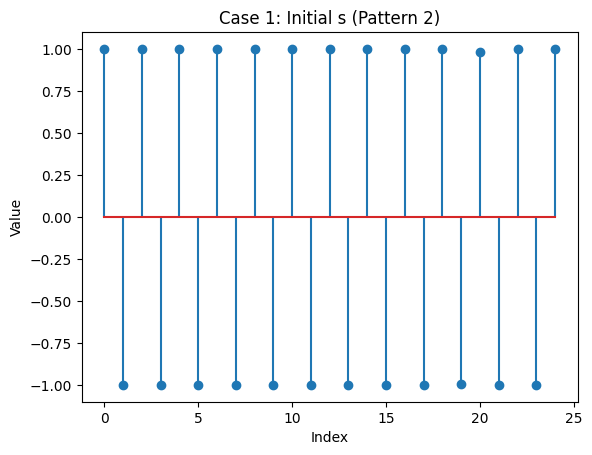
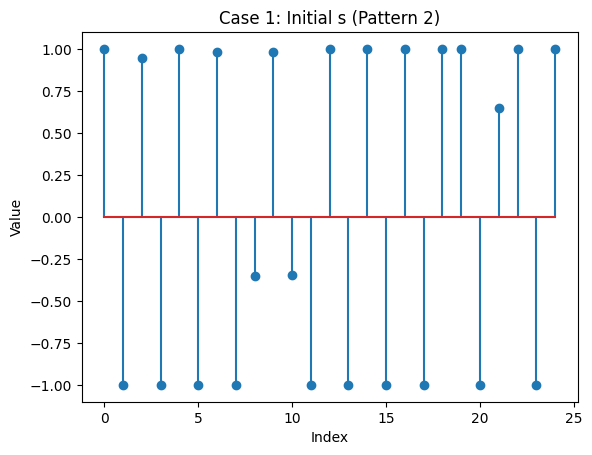
noise increase

diff --git a/projectTwo/hopfield.py b/projectTwo/hopfield.py
@@ -16,22 +16,19 @@ def hebbian_weights_from_patterns(patterns_01: np.ndarray, zero_diagonal: bool =
     patterns_01: shape (k, n) with entries in {0,1}.
     Returns symmetric W with optional zero diagonal.
     """
-    patterns = to_bipolar(patterns_01)  # (k, n) in {-1,1}
+    patterns = to_bipolar(patterns_01)
     k, n = patterns.shape
-    W = np.zeros((n, n), dtype=float) # sum over outer products
+    W = np.zeros((n, n), dtype=float)
     for p in patterns:
         W += np.outer(p, p)
     if normalize and n > 0:
         W /= n
     if zero_diagonal:
         np.fill_diagonal(W, 0.0)
-    # ensure symmetry
     W = 0.5 * (W + W.T)
     return W
 
-# -------------------------------
-# Simple fixed-step RK4 integrator
-# -------------------------------
+
 def rk4_step(f, t, x, dt):
     k1 = f(t, x)
     k2 = f(t + 0.5*dt, x + 0.5*dt*k1)
@@ -39,11 +36,9 @@ def rk4_step(f, t, x, dt):
     k4 = f(t + dt, x + dt*k3)
     return x + (dt/6.0) * (k1 + 2*k2 + 2*k3 + k4)
 
-# -------------------------------
-# Continuous-time Hopfield Network
 # du/dt = (-u + W*s + b) / tau,  s = tanh(beta * u)
-# Energy proxy: E = -0.5 * s^T W s - b^T s  (monitors descent qualitatively)
-# -------------------------------
+# E = -0.5 * s^T W s - b^T s
+
 class ContinuousHopfield:
     def __init__(self, W: np.ndarray, tau: float = 1.0, beta: float = 4.0, bias: np.ndarray | None = None, seed: int | None = None):
         """
@@ -65,8 +60,6 @@ class ContinuousHopfield:
     def set_state_from_pattern01(self, y01: np.ndarray, noise_std: float = 0.0):
         """Initialize u near the bipolar version of a 0/1 pattern."""
         s_target = to_bipolar(y01.astype(float))
-        # Initialize u so that tanh(beta u) ≈ s_target
-        # arctanh maps (-1,1) -> R; clip to avoid inf
         eps = 1e-5
         s_clip = np.clip(s_target, -1+eps, 1-eps)
         u0 = np.arctanh(s_clip) / self.beta
@@ -123,13 +116,8 @@ class ContinuousHopfield:
         """Return discrete {-1,1} state from current s."""
         return np.sign(self.s + 1e-12)  # avoid zeros
 
-# -------------------------------
-# Max-Cut via Hopfield
-# Given weighted adjacency A (symmetric, zero diag), the Max-Cut objective:
-# maximize (1/2) * sum_{i<j} A_ij * (1 - s_i s_j)  with s_i in {-1,1}
-# Equivalent to minimizing -0.5 * s^T A s  => set W = -A
-# -------------------------------
-def hopfield_for_maxcut(A: np.ndarray, tau: float = 1.0, beta: float = 4.0, seed: int | None = None) -> ContinuousHopfield:
+
+def maxcut(A: np.ndarray, tau: float = 1.0, beta: float = 4.0, seed: int | None = None) -> ContinuousHopfield:
     A = 0.5 * (A + A.T)
     np.fill_diagonal(A, 0.0)
     W = -A.copy()
@@ -138,9 +126,7 @@ def hopfield_for_maxcut(A: np.ndarray, tau: float = 1.0, beta: float = 4.0, seed
 def cut_value(A: np.ndarray, s_sign: np.ndarray) -> float:
     """Compute cut value for spins s in {-1,1}^n and adjacency A."""
     # Cut = sum_{i<j} A_ij * [s_i != s_j] = 0.5 * sum_{i<j} A_ij * (1 - s_i s_j)
-    # Implement with matrix ops
     A = 0.5 * (A + A.T)
     np.fill_diagonal(A, 0.0)
     S = np.outer(s_sign, s_sign)
-    total = 0.5 * np.sum(A * (1.0 - S))
-    return float(total)
+    return float(0.25 * np.sum(A * (1.0 - S)))

diff --git a/projectTwo/run_project2.py b/projectTwo/run_project2.py
@@ -6,7 +6,7 @@ from hopfield import (
     hebbian_weights_from_patterns,
     ContinuousHopfield,
     to_bipolar, from_bipolar,
-    hopfield_for_maxcut, cut_value
+    maxcut, cut_value
 )
 
 outdir = Path("/Users/yashila/Documents/GitHub/NengoBrain/projectTwo/outputs")
@@ -57,44 +57,37 @@ def plot_state(s, title, savepath, y01=False):
 n = 25
 rng = np.random.default_rng(42)
 
-# Create three distinct binary patterns (0/1)
-# Here we choose structured patterns for clarity.
 p1 = np.zeros(n); p1[:n//2] = 1  # first half ones
 p2 = np.zeros(n); p2[::2] = 1    # even indices ones
-p3 = (rng.random(n) > 0.5).astype(float)  # random bits
+p3 = (rng.random(n) > 0.5).astype(float)  # random bit
 
 patterns = np.vstack([p1, p2, p3])  # shape (3, n)
 
-# Save pattern plots
 plot_pattern(p1, "Pattern 1 (0/1)", outdir / "case1_pattern1.png")
 plot_pattern(p2, "Pattern 2 (0/1)", outdir / "case1_pattern2.png")
 plot_pattern(p3, "Pattern 3 (0/1)", outdir / "case1_pattern3.png")
 
-# Hebbian weights (using provided formula via bipolar mapping)
+# Compute Hebbian weights
 W = hebbian_weights_from_patterns(patterns, zero_diagonal=True, normalize=True)
 plot_matrix(W, "Weights W (Hebbian, zero diag, normalized)", outdir / "case1_W.png")
-
-# Build network
 tau = 1.0
 beta = 4.0
 net = ContinuousHopfield(W=W, tau=tau, beta=beta, seed=7)
 
-# For each stored pattern, start from a noisy init and show convergence
 T = 5.0
 dt = 0.01
-noise_std = 0.6
+noise_std = 2
 
 for idx, target in enumerate(patterns, start=1):
     net.set_state_from_pattern01(target, noise_std=noise_std)
     ts, _, traj_s, energies = net.run(T=T, dt=dt, record=True)
-    # Save energy trajectory
     plot_trajectory(ts, energies, f"Case 1: Energy (Pattern {idx})", outdir / f"case1_energy_p{idx}.png")
-    # Save initial vs final states
+
     s_init = traj_s[0]
     s_final = traj_s[-1]
     plot_state(s_init, f"Case 1: Initial s (Pattern {idx})", outdir / f"case1_init_s_p{idx}.png")
     plot_state(s_final, f"Case 1: Final s (Pattern {idx})", outdir / f"case1_final_s_p{idx}.png")
-    # Also save final hard readout in 0/1
+
     y_final = (np.sign(s_final) + 1.0) / 2.0
     plot_state(np.sign(s_final), f"Case 1: Final sign(s) (Pattern {idx})", outdir / f"case1_final_signs_p{idx}.png")
     plot_state(y_final, f"Case 1: Final y (0/1) (Pattern {idx})", outdir / f"case1_final_y01_p{idx}.png")
@@ -103,7 +96,7 @@ for idx, target in enumerate(patterns, start=1):
 # Case 2: Max-Cut on small graph (n = 8), three inits
 # ----------------------------
 m = 8
-# Define a small weighted undirected graph
+
 A = np.zeros((m, m), dtype=float)
 edges = [
     (0,1,1.0), (0,2,0.8), (1,2,0.5), (1,3,1.2), (2,4,1.1),
@@ -113,8 +106,8 @@ edges = [
 for i,j,w in edges:
     A[i,j] = w; A[j,i] = w
 
-# Build Hopfield for Max-Cut: W = -A
-maxcut_net = hopfield_for_maxcut(A, tau=1.0, beta=4.0, seed=123)
+
+maxcut_net = maxcut(A, tau=1.0, beta=4.0, seed=123)
 
 # Plot adjacency and implied W
 fig = plt.figure()
@@ -133,7 +126,6 @@ plt.xlabel("j"); plt.ylabel("i")
 fig.savefig(outdir / "case2_W_minusA.png", bbox_inches="tight")
 plt.close(fig)
 
-# Run from three different initial conditions
 T2 = 6.0
 dt2 = 0.01
 inits = [
